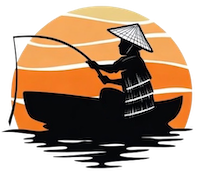
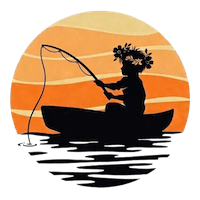
更换logo

diff --git a/src/app/layout.tsx b/src/app/layout.tsx
@@ -5,8 +5,8 @@ export const metadata: Metadata = {
   title: '名下的白日梦',
   description: '意气书生苦读寒窗十年终究为读书读人读天下；风华剑客笑看江山万里一心愿看剑看云看苍生。',
   icons: {
-    icon: '/assets/favicon.png',
-    shortcut: '/assets/favicon.png',
+    icon: '/assets/favicon.ico',
+    shortcut: '/assets/favicon.ico',
     apple: '/assets/bytedayb.png',
   },
 };
@@ -19,8 +19,8 @@ export default function RootLayout({
   return (
     <html lang="zh-CN">
       <head>
-        <link rel="icon" href="/favicon.png" sizes="any" />
-        <link rel="apple-touch-icon" href="/apple-touch-icon.png" />
+        <link rel="icon" href="/favicon.ico" sizes="any" />
+        <link rel="apple-touch-icon" href="/bytedayb.png" />
       </head>
       <body className="transition-colors duration-1000">
         {children}
